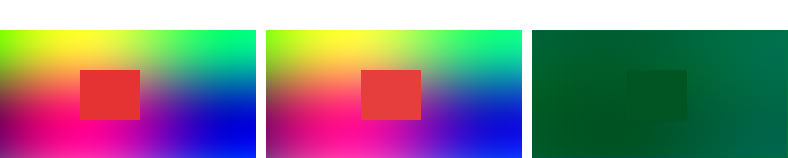
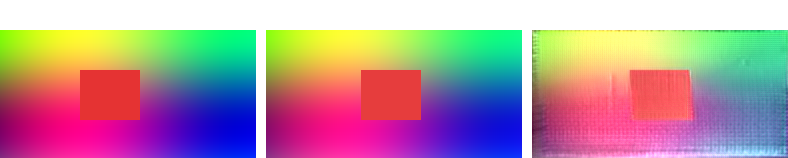
Enhance script 05 with pretrained checkpoint loading and custom stereo image pair CLI arguments

Changed region(s): [[0.6701, 0.1772, 1.0, 1.0]]

diff --git a/scripts/05_simulate_deepjscc_wz_transmission.py b/scripts/05_simulate_deepjscc_wz_transmission.py
@@ -63,7 +63,7 @@ def create_synthetic_stereo_pair(width=256, height=128):
     return tensor_x, tensor_side
 
 
-def simulate_deepjscc_wz_transmission(snr_db: float = 0.0, bw_factor: int = 16, output_dir: str = "paper_evaluation_results/transmission_demo", ckpt_path: str = None):
+def simulate_deepjscc_wz_transmission(snr_db: float = 0.0, bw_factor: int = 16, output_dir: str = "paper_evaluation_results/transmission_demo", ckpt_path: str = None, custom_x: str = None, custom_side: str = None):
     os.makedirs(output_dir, exist_ok=True)
 
     print("=" * 85)
@@ -99,7 +99,7 @@ def simulate_deepjscc_wz_transmission(snr_db: float = 0.0, bw_factor: int = 16, 
 
     if ckpt_path and os.path.exists(ckpt_path):
         print(f"      [Checkpoint] Loading pretrained weights from {ckpt_path}...")
-        state_dict = torch.load(ckpt_path, map_location="cpu")
+        state_dict = torch.load(ckpt_path, map_location="cpu", weights_only=False)
         if "state_dict" in state_dict:
             state_dict = state_dict["state_dict"]
         model.load_state_dict(state_dict, strict=False)
@@ -109,8 +109,16 @@ def simulate_deepjscc_wz_transmission(snr_db: float = 0.0, bw_factor: int = 16, 
         print("             To reconstruct crisp images with 34+ dB PSNR, place official .ckpt in checkpoints/.")
 
     # 2. Input stereo image pair
-    print("\n[2/6] Generating stereo image pair (x, x_side) with disparity...")
-    x, x_side = create_synthetic_stereo_pair(width=256, height=128)
+    if custom_x and custom_side and os.path.exists(custom_x) and os.path.exists(custom_side):
+        print(f"\n[2/6] Loading custom stereo image pair from disk...")
+        print(f"      Source image:    {custom_x}")
+        print(f"      Side info image: {custom_side}")
+        t_trans = transforms.Compose([transforms.Resize((128, 256)), transforms.ToTensor()])
+        x = t_trans(Image.open(custom_x).convert("RGB")).unsqueeze(0)
+        x_side = t_trans(Image.open(custom_side).convert("RGB")).unsqueeze(0)
+    else:
+        print("\n[2/6] Generating stereo image pair (x, x_side) with disparity...")
+        x, x_side = create_synthetic_stereo_pair(width=256, height=128)
     print(f"      Source image x shape:      {list(x.shape)}  (Range: [{x.min():.2f}, {x.max():.2f}])")
     print(f"      Side image x_side shape:   {list(x_side.shape)} (Range: [{x_side.min():.2f}, {x_side.max():.2f}])")
 
@@ -234,4 +242,21 @@ def simulate_deepjscc_wz_transmission(snr_db: float = 0.0, bw_factor: int = 16, 
 
 
 if __name__ == "__main__":
-    simulate_deepjscc_wz_transmission(snr_db=0.0, bw_factor=16)
+    import argparse
+    parser = argparse.ArgumentParser(description="Simulate DeepJSCC-WZ Forward Transmission Pipeline on CPU")
+    parser.add_argument("--snr", type=float, default=0.0, help="Channel SNR in dB (default: 0.0)")
+    parser.add_argument("--bw", type=int, default=16, help="Bandwidth factor: 16 (rho=1/16) or 32 (rho=1/32) (default: 16)")
+    parser.add_argument("--ckpt", type=str, default=None, help="Path to custom pretrained checkpoint .ckpt")
+    parser.add_argument("--img_x", type=str, default=None, help="Path to source image x (PNG/JPG)")
+    parser.add_argument("--img_side", type=str, default=None, help="Path to side information image x_side (PNG/JPG)")
+    parser.add_argument("--out_dir", type=str, default="paper_evaluation_results/transmission_demo", help="Output directory")
+    args = parser.parse_args()
+
+    simulate_deepjscc_wz_transmission(
+        snr_db=args.snr,
+        bw_factor=args.bw,
+        output_dir=args.out_dir,
+        ckpt_path=args.ckpt,
+        custom_x=args.img_x,
+        custom_side=args.img_side,
+    )
